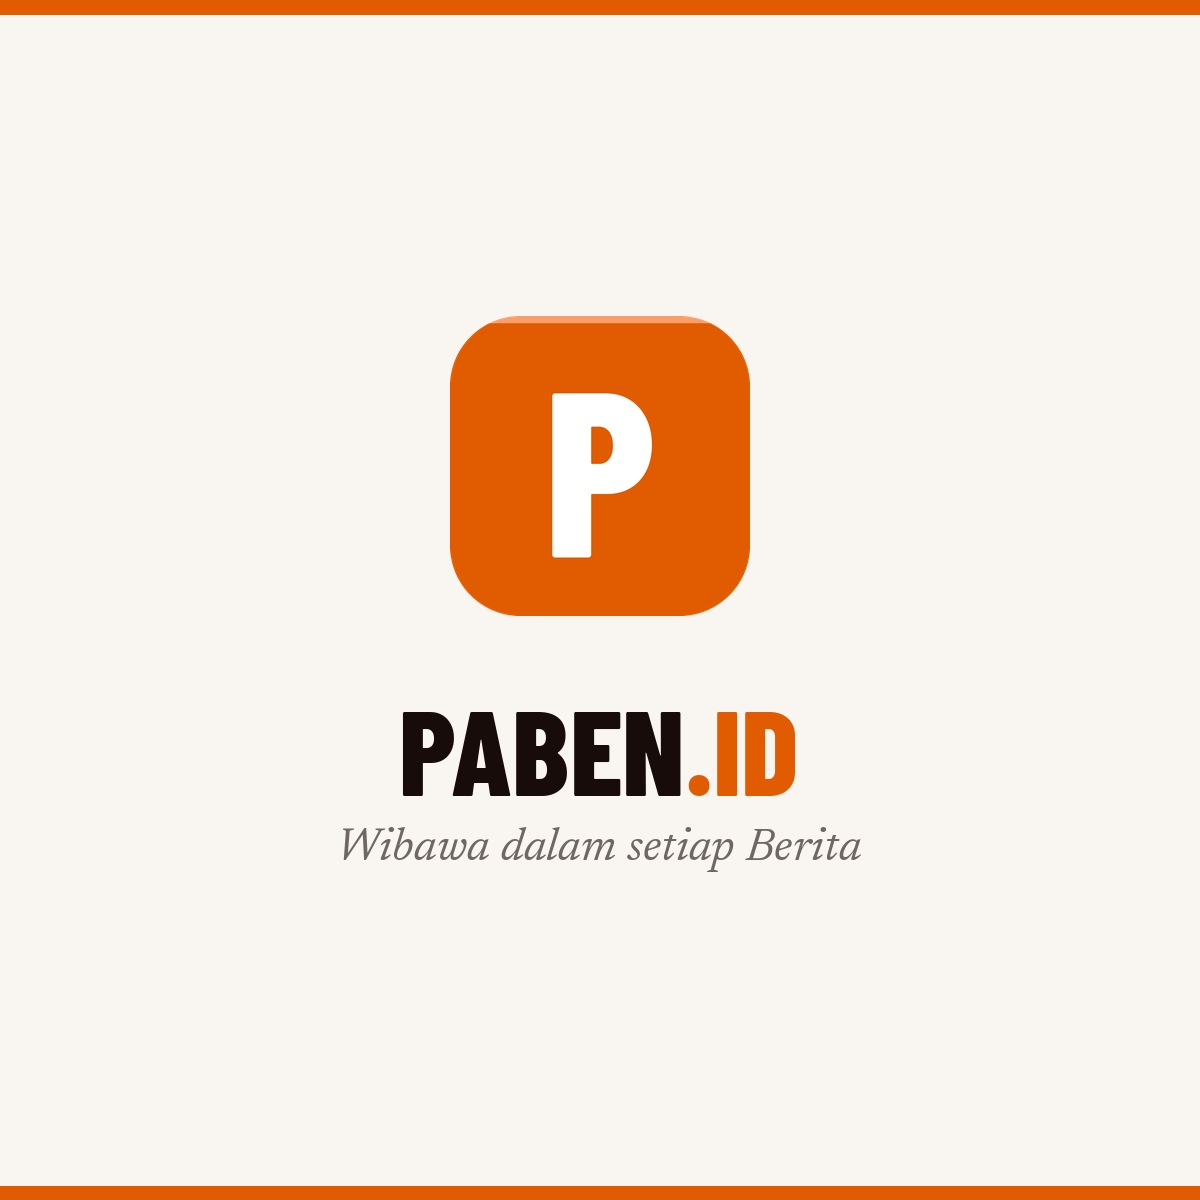
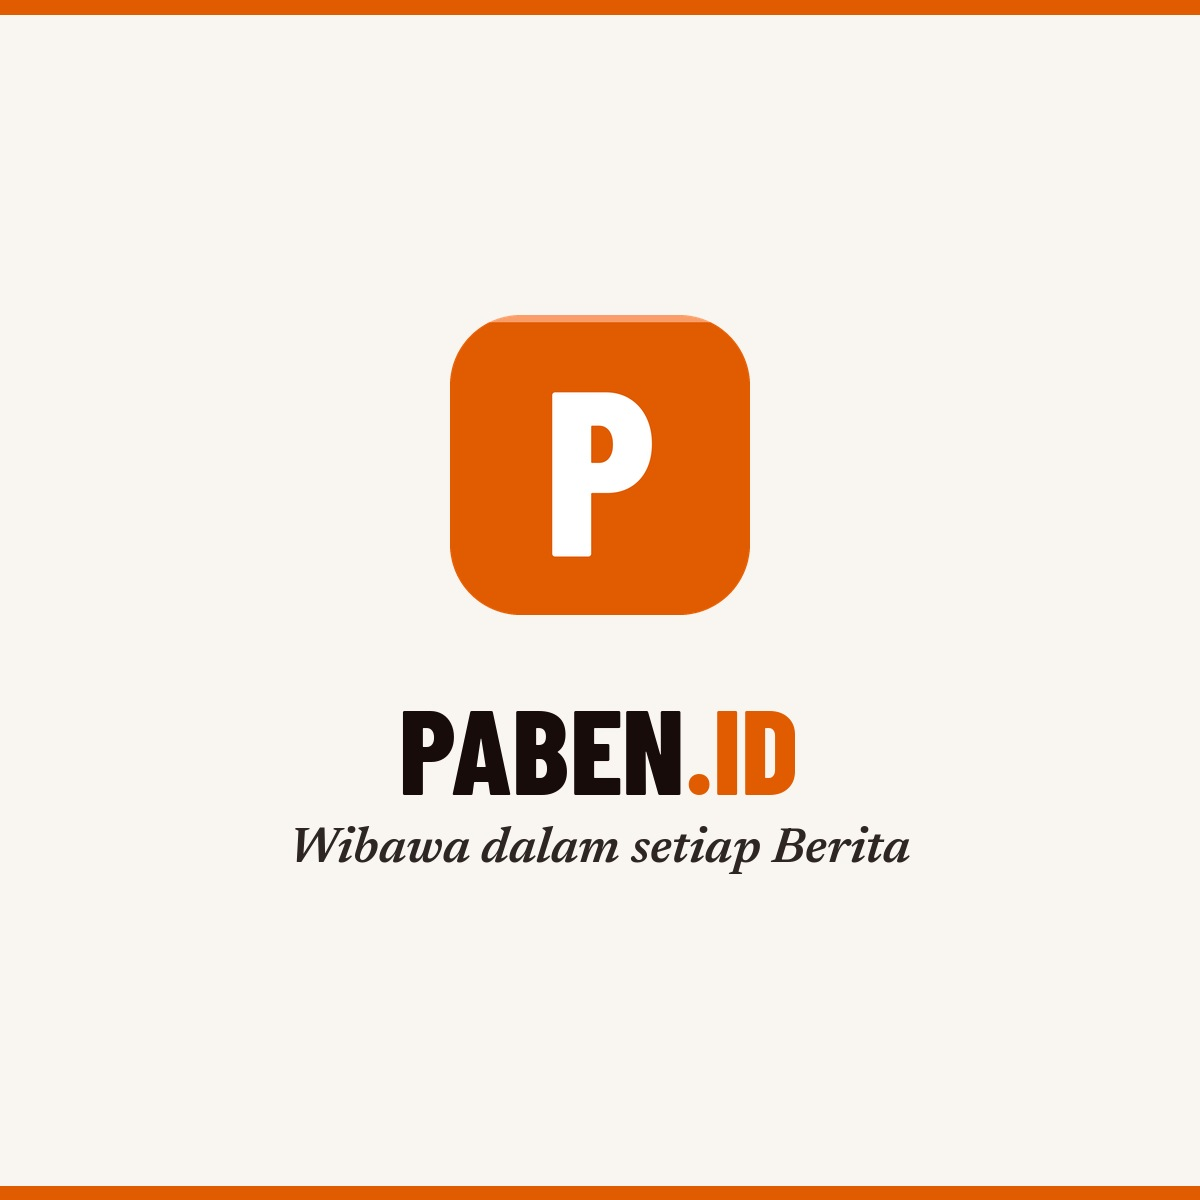
Add files via upload

Changed region(s): [[0.2467, 0.6783, 0.7708, 0.74], [0.4317, 0.2467, 0.5858, 0.2775]]

diff --git a/index.html b/index.html
@@ -33,7 +33,7 @@
     <link rel="preconnect" href="https://fonts.googleapis.com" />
     <link rel="preconnect" href="https://fonts.gstatic.com" crossorigin />
     <link
-      href="https://fonts.googleapis.com/css2?family=Barlow:wght@400;500;600;700&family=Barlow+Condensed:wght@700;800&family=Newsreader:ital,wght@1,400;1,500&display=swap"
+      href="https://fonts.googleapis.com/css2?family=Barlow:wght@400;500;600;700&family=Barlow+Condensed:wght@700;800&family=Newsreader:ital,wght@1,400;1,600&display=swap"
       rel="stylesheet"
     />
 

diff --git a/src/index.css b/src/index.css
@@ -48,6 +48,13 @@ h1, h2, h3, .font-display {
 .font-tagline {
   font-family: var(--font-serif);
   font-style: italic;
+  /*
+   * Bobot 600, bukan 400 seperti di dokumen identitas.
+   * Newsreader italic 400 terlalu tipis untuk ukuran slogan: hurufnya pecah
+   * dan kalimatnya kehilangan wibawa yang justru jadi isinya. Aset logo
+   * memakai bobot yang sama supaya slogan di header dan di footer seragam.
+   */
+  font-weight: 600;
 }
 
 @keyframes ticker {

diff --git a/src/components/Footer.tsx b/src/components/Footer.tsx
@@ -38,7 +38,7 @@ export const Footer: React.FC<FooterProps> = ({ categories, onSelectCategory, on
           >
             PABEN<span className="text-[#fa9d68]">.ID</span>
           </button>
-          <p className="font-tagline text-stone-400 text-sm -mt-1">
+          <p className="font-tagline text-[#fa9d68] text-[15px] -mt-1">
             Wibawa dalam setiap Berita
           </p>
           <p className="text-stone-400 leading-relaxed">

diff --git a/README.md b/README.md
@@ -36,8 +36,13 @@ memakai tinta hangat — oranye versi lama terlalu terang untuk blok luas.
 > Jingga Tua mencapai 5,6:1. Garis bawahnya tetap Jingga Redaksi karena
 > elemen grafis cukup 3:1.
 >
-> Tagline di lockup dinaikkan dari 11.5u ke 13.5u dan warnanya digelapkan ke
-> Abu Teks — pada tinggi header versi 11.5u terlalu samar untuk dibaca.
+> Tagline dinaikkan dari 11.5u ke 14u, bobotnya dari italic 400 ke **italic
+> 600**, dan warnanya digelapkan dari Abu Teks ke tinta `#2D2623`. Versi 400
+> terlalu tipis di ukuran header — hurufnya pecah dan slogannya kehilangan
+> wibawa yang justru jadi isi kalimatnya. Bobot ini dipakai di dua tempat dan
+> harus tetap sama: aset PNG (`public/logo-wordmark.png`) dan kelas
+> `.font-tagline` di `src/index.css`. Bobot 600 juga harus ikut dimuat di
+> tautan Google Fonts pada `index.html`.
 
 Tokennya didefinisikan sekali di `src/index.css` (blok `@theme`), jadi bisa
 dipakai sebagai utility Tailwind: `bg-jingga`, `text-tinta`, `border-garis`,
@@ -49,7 +54,7 @@ dan seterusnya.
 |---|---|---|
 | Barlow Condensed | 800 | wordmark & judul |
 | Barlow | 400/600 | navigasi & antarmuka |
-| Newsreader | italic 400 | tagline & kutipan |
+| Newsreader | italic **600** | tagline & kutipan |
 
 Tagline: *Wibawa dalam setiap Berita*
 
@@ -80,7 +85,8 @@ Bold (kotak jingga radius 15/64, huruf P Barlow Condensed 800 putih digeser
 
 - `logo-wordmark.png` — lockup utama: monogram + PABEN.ID + tagline. Proporsi
   dari dokumen (monogram 64u, wordmark 22u, jarak 14u), kecuali tagline yang
-  dinaikkan ke 13.5u dan digelapkan agar terbaca di tinggi header 68px
+  dinaikkan ke 14u, ditebalkan ke italic 600, dan digelapkan agar tegas di
+  tinggi header 68px
 - `logo-wordmark-plain.png` — lockup tanpa tagline, untuk tempat sangat sempit
 - `logo-icon-512.png` — ikon aplikasi
 - `favicon.ico`, `favicon-32.png`, `apple-touch-icon.png`
